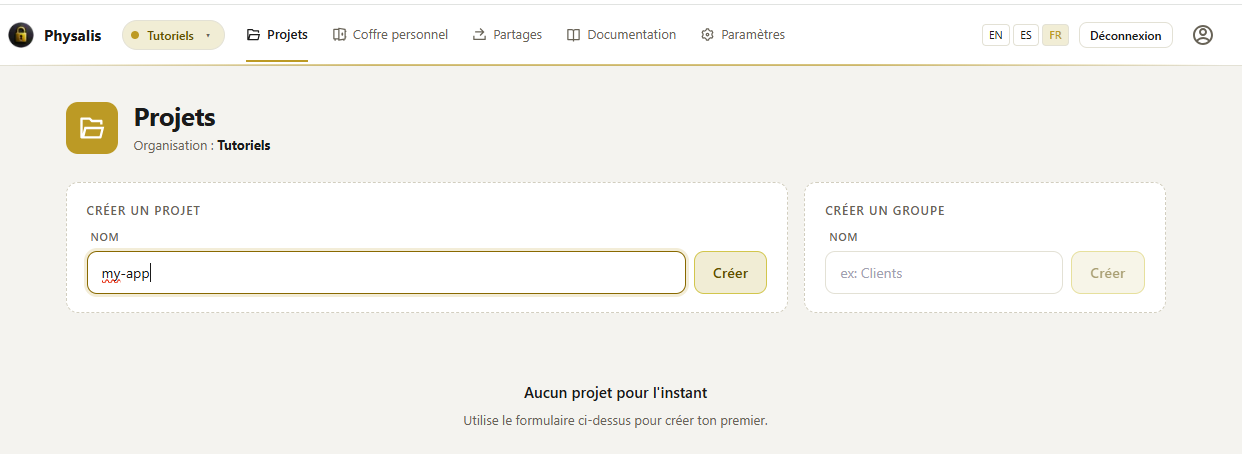
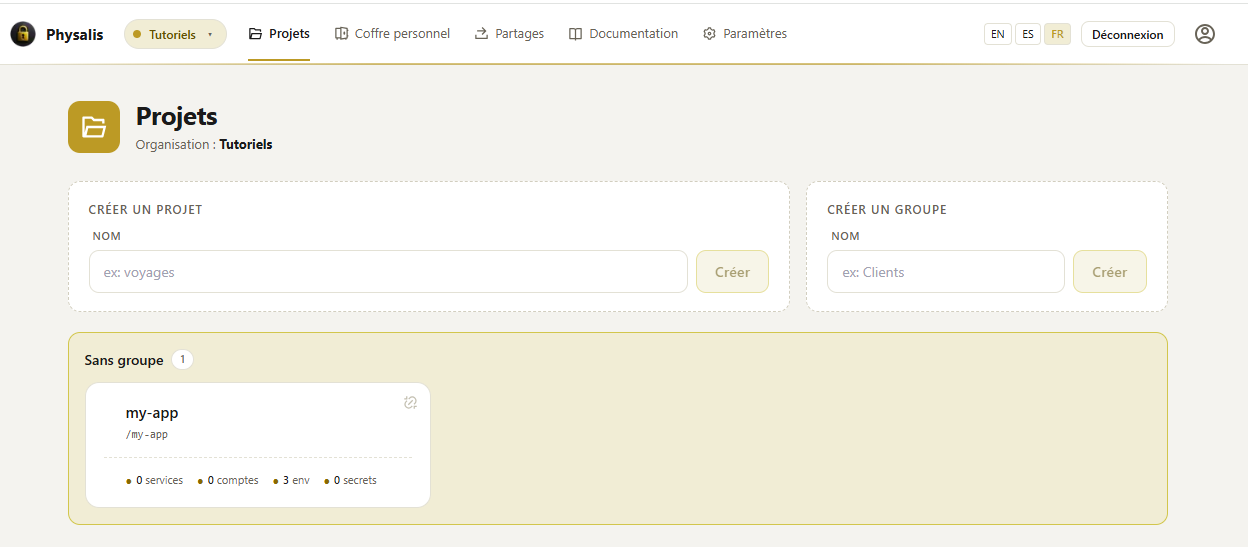
docs: aligner 03/07 sur l'app réelle + MAJ capture tuto 01.1
- documentation 03 (projets) et 07 (Policy) corrigées (FR/EN/ES), en phase
  avec l'app réelle (création projet, 3 envs par défaut, Policy 3 champs)
- public/tutos/fr/premier-deploiement-github-01.1.png : nouvelle capture

diff --git a/docs/documentation/fr/03-projets-et-environnements.md b/docs/documentation/fr/03-projets-et-environnements.md
@@ -23,13 +23,11 @@ Dans Physalis, chaque application déployée est représentée par un
 > peuvent voir tous les projets mais pas en créer.
 
 1. Allez sur `/projects` (onglet **Projets** dans la nav).
-2. Bouton **« + Nouveau projet »** en haut à droite.
-3. Saisissez :
-   - **Nom** — libre, affiché dans le dashboard
-   - **Slug** — identifiant URL-safe (sera utilisé dans
-     `/projects/<slug>` et dans le bundle de déploiement)
-4. Validez. Vous êtes redirigé vers la page du projet, prêt à créer
-   votre premier environnement.
+2. Dans **« Créer un projet »**, saisissez le **nom** de votre projet, puis
+   cliquez sur **« Créer »**.
+3. Le projet apparaît dans un bloc **« sans groupe »** par défaut. Son **slug**
+   (identifiant URL-safe utilisé dans `/projects/<slug>` et le bundle de
+   déploiement) est **dérivé du nom**.
 
 > ⚠ Le **slug est définitif** : il sert d'ancrage pour les Policies de
 > déploiement OIDC. Le changer plus tard cassera tous les workflows qui
@@ -37,9 +35,12 @@ Dans Physalis, chaque application déployée est représentée par un
 
 ## Créer un environnement
 
-Onglet **« Environnements »** du projet → bouton **« + Nouvel environnement »**.
+À la création d'un projet, **trois environnements sont créés par défaut** :
+`development`, `staging` et `production`. Vous les gérez depuis les **paramètres
+du projet** — onglet **« Environnements »** — et pouvez en **ajouter** d'autres
+avec le bouton **« + Nouvel environnement »**.
 
-Champs disponibles :
+Champs d'un environnement :
 
 | Champ            | Description                                                                 |
 |------------------|-----------------------------------------------------------------------------|

diff --git a/docs/documentation/es/03-proyectos-y-entornos.md b/docs/documentation/es/03-proyectos-y-entornos.md
@@ -23,13 +23,11 @@ vinculado a una organización. Un proyecto contiene:
 > puede ver todos los proyectos pero no puede crearlos.
 
 1. Ve a `/projects` (pestaña **Proyectos** en la navegación).
-2. Haz clic en **"+ Nuevo proyecto"** en la esquina superior derecha.
-3. Rellena:
-   - **Nombre** — libre, se muestra en el panel
-   - **Slug** — identificador válido en URL (usado en
-     `/projects/<slug>` y en el paquete de despliegue)
-4. Envía. Serás redirigido a la página del proyecto, listo para crear
-   tu primer entorno.
+2. En **"Crear un proyecto"**, introduce el **nombre** de tu proyecto y luego
+   haz clic en **"Crear"**.
+3. El proyecto aparece en un bloque **"sin grupo"** por defecto. Su **slug**
+   (identificador válido en URL, usado en `/projects/<slug>` y en el paquete de
+   despliegue) se **deriva del nombre**.
 
 > ⚠ El **slug es permanente**: sirve como ancla para las
 > políticas de despliegue OIDC. Cambiarlo posteriormente romperá todos los flujos
@@ -37,9 +35,12 @@ vinculado a una organización. Un proyecto contiene:
 
 ## Crear un entorno
 
-Pestaña **"Entornos"** del proyecto → botón **"+ Nuevo entorno"**.
+Al crear un proyecto, se crean **tres entornos por defecto**: `development`,
+`staging` y `production`. Los gestionas desde los **ajustes del proyecto** —
+pestaña **"Entornos"** — y puedes **añadir** más con el botón
+**"+ Nuevo entorno"**.
 
-Campos disponibles:
+Campos de un entorno:
 
 | Campo              | Descripción                                                                 |
 |--------------------|-----------------------------------------------------------------------------|

diff --git a/docs/documentation/en/03-projects-and-environments.md b/docs/documentation/en/03-projects-and-environments.md
@@ -23,13 +23,11 @@ attached to an organisation. A project contains:
 > can see all projects but cannot create them.
 
 1. Go to `/projects` (**Projects** tab in the nav).
-2. Click **"+ New project"** in the top-right corner.
-3. Fill in:
-   - **Name** — free-form, displayed in the dashboard
-   - **Slug** — URL-safe identifier (used in
-     `/projects/<slug>` and in the deployment bundle)
-4. Submit. You are redirected to the project page, ready to create
-   your first environment.
+2. Under **"Create a project"**, enter your project **name**, then click
+   **"Create"**.
+3. The project appears in an **"ungrouped"** block by default. Its **slug**
+   (URL-safe identifier used in `/projects/<slug>` and the deployment bundle)
+   is **derived from the name**.
 
 > ⚠ The **slug is permanent**: it serves as the anchor for OIDC
 > deployment Policies. Changing it later will break all workflows that
@@ -37,9 +35,12 @@ attached to an organisation. A project contains:
 
 ## Create an environment
 
-**"Environments"** tab of the project → **"+ New environment"** button.
+When a project is created, **three environments are created by default**:
+`development`, `staging` and `production`. You manage them from the **project
+settings** — **"Environments"** tab — and can **add** more with the
+**"+ New environment"** button.
 
-Available fields:
+Environment fields:
 
 | Field            | Description                                                                 |
 |------------------|-----------------------------------------------------------------------------|

diff --git a/docs/documentation/es/07-despliegue-oidc.md b/docs/documentation/es/07-despliegue-oidc.md
@@ -187,13 +187,17 @@ formato esperado por el proveedor (ver la tabla de referencia): proyecto →
 Esta es la **regla de autorización**: quién (claims OIDC del job) puede
 desplegar dónde (proyecto + entorno de Physalis).
 
-En la página del proyecto → pestaña **"Policies"** → **"+ New Policy"**.
+En la página del proyecto → pestaña **"Policies"** → **"+ Añadir"**.
+
+> El **repositorio** **no** es un campo de la Política: se indica una sola vez
+> en la **conexión CI/CD** del proyecto (Ajustes → Conexión CI/CD → campo
+> **Repo**). La Política solo define, por tanto, las **3 dimensiones** de abajo
+> — el repositorio sigue verificándose en ejecución, desde la conexión.
 
 Campos (todos obligatorios, **coincidencia estricta, sin comodines**):
 
 | Campo             | GitHub                | GitLab                  | Bitbucket               |
 |-------------------|-----------------------|-------------------------|-------------------------|
-| **Repo**          | `argo-web/physalis`   | `acme/web`              | `{11111111-…}`          |
 | **Workflow / Entorno CI** | `deploy.yml`  | `production` (`environment: name:`) | `production` (`deployment:`) |
 | **Branch**        | `main`                | `main`                  | `main`                  |
 | **Environment**   | un entorno existente del proyecto | igual       | igual                   |

diff --git a/docs/documentation/fr/07-deploiement-oidc.md b/docs/documentation/fr/07-deploiement-oidc.md
@@ -190,13 +190,17 @@ projet → **Paramètres** → **Connexion CI/CD** + champ **Repo**.
 C'est la **règle d'autorisation** : qui (claims OIDC du job) peut déployer
 où (projet + env Physalis).
 
-Sur la page du projet → onglet **« Policies »** → **« + Nouvelle Policy »**.
+Sur la page du projet → onglet **« Policies »** → **« + Ajouter »**.
+
+> Le **dépôt** n'est **pas** un champ de la Policy : il se renseigne une seule
+> fois sur la **connexion CI/CD** du projet (Paramètres → Connexion CI/CD →
+> champ **Repo**). La Policy ne définit donc que les **3 dimensions** ci-dessous
+> — le dépôt reste néanmoins vérifié à l'exécution, depuis la connexion.
 
 Champs (tous obligatoires, **match strict, aucune wildcard**) :
 
 | Champ             | GitHub                | GitLab                  | Bitbucket               |
 |-------------------|-----------------------|-------------------------|-------------------------|
-| **Repo**          | `argo-web/physalis`   | `acme/web`              | `{11111111-…}`          |
 | **Workflow / Env CI** | `deploy.yml`      | `production` (`environment: name:`) | `production` (`deployment:`) |
 | **Branche**       | `main`                | `main`                  | `main`                  |
 | **Environnement** | un env existant du projet | idem                | idem                    |

diff --git a/docs/documentation/en/07-oidc-deployment.md b/docs/documentation/en/07-oidc-deployment.md
@@ -186,13 +186,17 @@ in the format expected by the provider (see the reference table): project →
 This is the **authorisation rule**: who (OIDC claims from the job) can deploy
 where (Physalis project + env).
 
-On the project page → **"Policies"** tab → **"+ New Policy"**.
+On the project page → **"Policies"** tab → **"+ Add"**.
+
+> The **repository** is **not** a Policy field: it is set once on the project's
+> **CI/CD connection** (Settings → CI/CD connection → **Repo** field). The Policy
+> therefore only defines the **3 dimensions** below — the repo is still verified
+> at runtime, from the connection.
 
 Fields (all required, **strict match, no wildcards**):
 
 | Field             | GitHub                | GitLab                  | Bitbucket               |
 |-------------------|-----------------------|-------------------------|-------------------------|
-| **Repo**          | `argo-web/physalis`   | `acme/web`              | `{11111111-…}`          |
 | **Workflow / CI env** | `deploy.yml`      | `production` (`environment: name:`) | `production` (`deployment:`) |
 | **Branch**        | `main`                | `main`                  | `main`                  |
 | **Environment**   | an existing env in the project | same           | same                    |
